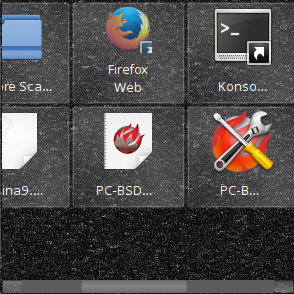
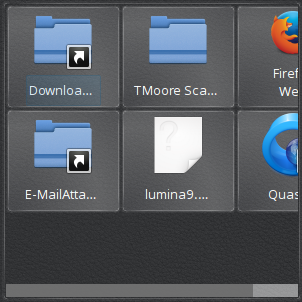
Update screenshots with PC-BSD references - Updated 4 screenshots that contained PC-BSD references. - Minor text edits to screenshot descriptions to reflect any changes.

diff --git a/luminaconfig.rst b/luminaconfig.rst
@@ -225,13 +225,14 @@ by unchecking "View Syntax Codes".
 .. figure:: images/lumina30.png
    :scale: 100%
 
-The "Startup Services and Applications" option, displayed in 
-:numref:`Figure %s: Lumina Startup Services <lumina6d>`, allows you to 
-adjust what is automatically started upon logging into Lumina.
+The "Startup Services and Applications" option, displayed in
+:numref:`Figure %s: Lumina Startup Services <lumina6e>`, provides
+adjustment options for what is automatically started when logging into
+Lumina.
 
-.. _lumina6d:
+.. _lumina6e:
 
-.. figure:: images/lumina6d.png
+.. figure:: images/lumina6e.png
    :scale: 100%
    
 To prevent an application from starting automatically, uncheck its box.

diff --git a/luminaplugins.rst b/luminaplugins.rst
@@ -444,8 +444,8 @@ Desktop Bar
 
 .. figure:: images/luminapanelplugin3.png
 
-:numref:`Figure %s: Desktop Bar <luminapanelplugin3>` :guilabel:`Favorite Applications` 
-is pressed.
+:numref:`Figure %s: Desktop Bar <luminapanelplugin3>`: :guilabel:`Favorite Applications` 
+("Star" icon) is pressed.
 
 This plugin adds shortcuts to the panel for applications or files 
 contained within the ~/Desktop folder or favorited by the user. The 
